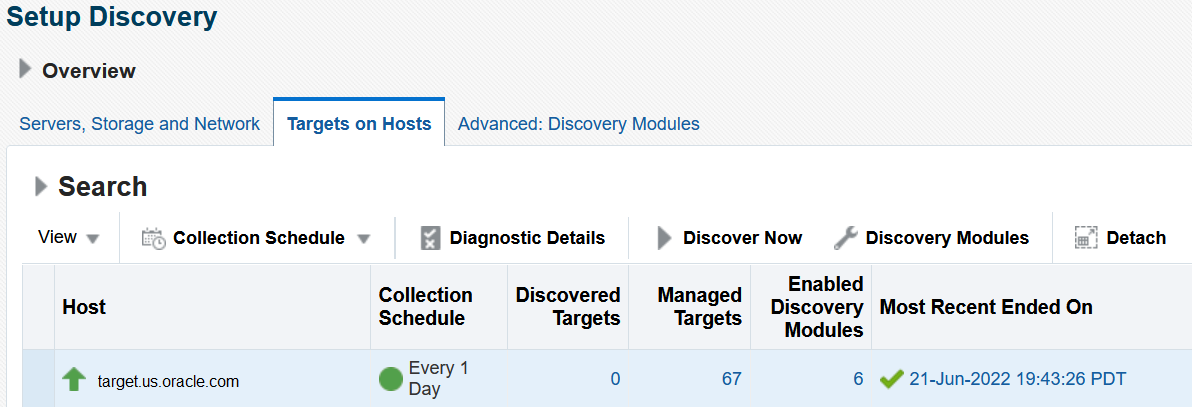
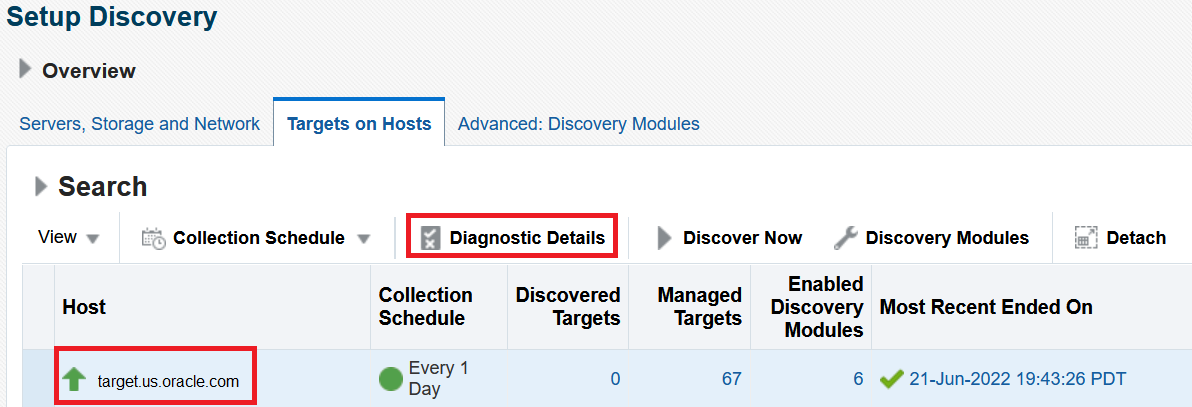
Updated Diagnostic Logs sprint task and images.

Changed region(s): [[0.031, 0.8256, 0.2173, 1.0], [0.3414, 0.5012, 0.5277, 0.6486]]

diff --git a/data-management/sprint-ogg-emp-diagnostic-log/sprint-ogg-emp-diagnostic-log.md b/data-management/sprint-ogg-emp-diagnostic-log/sprint-ogg-emp-diagnostic-log.md
@@ -1,5 +1,5 @@
 # How do I download Diagnostic Logs in Oracle GoldenGate Enterprise Manager Plug-in?
-Duration: 1 minute
+Duration: 2 minutes
 
 ### Prerequisites
 This sprint assumes you have:
@@ -11,7 +11,13 @@ See **Learn More**.
 ## Download Diagnostic Logs
 
 1. In the Oracle GoldenGate Enterprise Manager Plug-in UI, click **Setup**, select **Add Target** and then click **Configure Auto Discovery** to display the **Setup Discovery** page.
-2. On the **Targets on Host** tab, select the target
+2. On the **Targets on Host** tab, select the Target Name under **Host** and click **Diagnostic Details**:
+  ![Select Target Name and click Diagnostic Details.](./images/select-target.png " ")  
+
+3. In the **Diagnostic Details** page, click either **Oracle GoldenGate Microservices** and then click **Log from Agent** to retrieve the diagnostic log from the Agent for the most recently discovered target.
+
+    ![Click Log from Agent.](./images/ma-log-from-agent.png " ")
+4. After the diagnostic logs have been successfully retrieved, click **Close** in the **Confirmation** screen.
 
 
 ## Learn More

diff --git a/data-management/sprint-ogg-emp-discover-classic-cli/sprint-ogg-emp-discover-classic-cli.md b/data-management/sprint-ogg-emp-discover-classic-cli/sprint-ogg-emp-discover-classic-cli.md
@@ -1,5 +1,5 @@
 # How do I discover GoldenGate (classic) instances using the EM CLI verb in Oracle GoldenGate Enterprise Manager Plug-in?
-Duration: 1 minute
+Duration: 3 minutes
 
 ### Prerequisites
 This sprint assumes you have:

diff --git a/data-management/sprint-ogg-emp-discover-ma-cli/sprint-ogg-emp-discover-ma-cli.md b/data-management/sprint-ogg-emp-discover-ma-cli/sprint-ogg-emp-discover-ma-cli.md
@@ -1,5 +1,5 @@
 # How do I discover GoldenGate MA instances using the EM CLI verb in Oracle GoldenGate Enterprise Manager Plug-in?
-Duration: 1 minute
+Duration: 3 minutes
 
 ### Prerequisites
 This sprint assumes you have:
